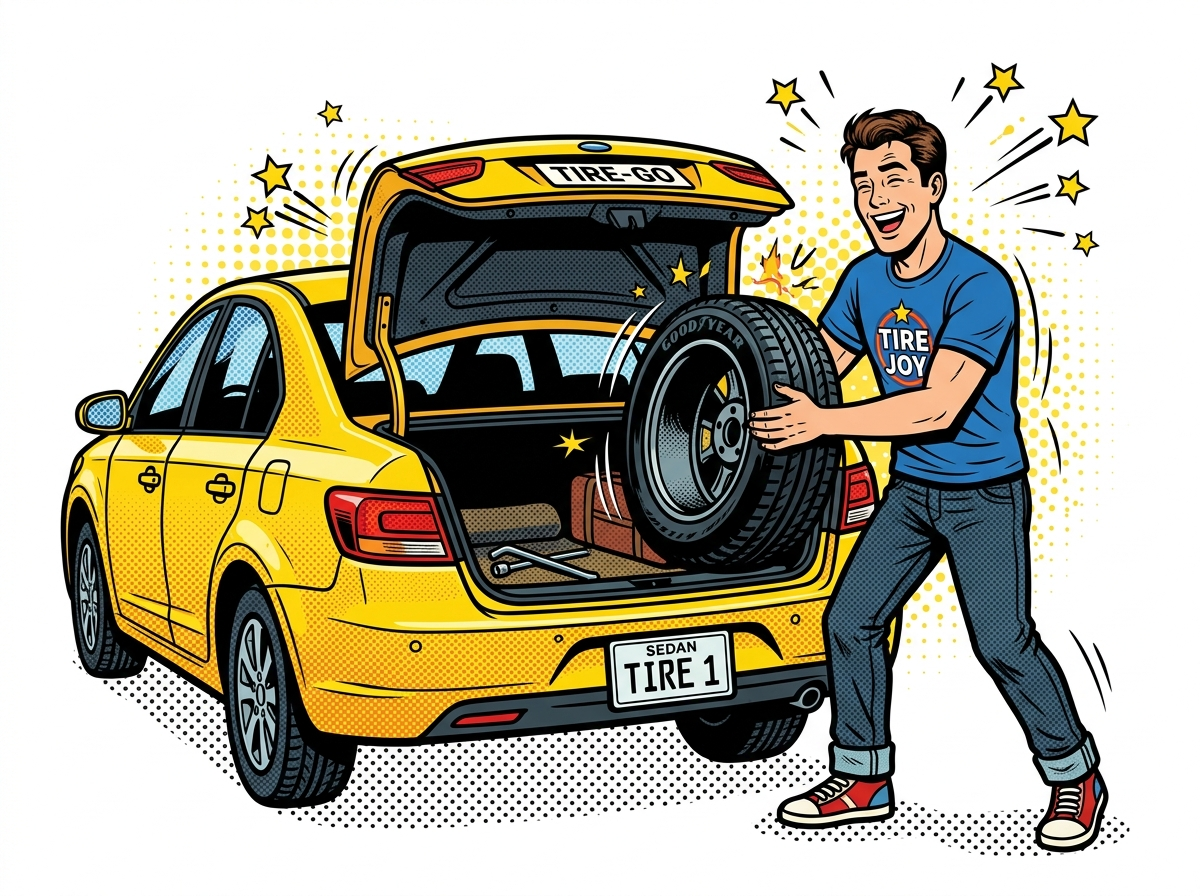
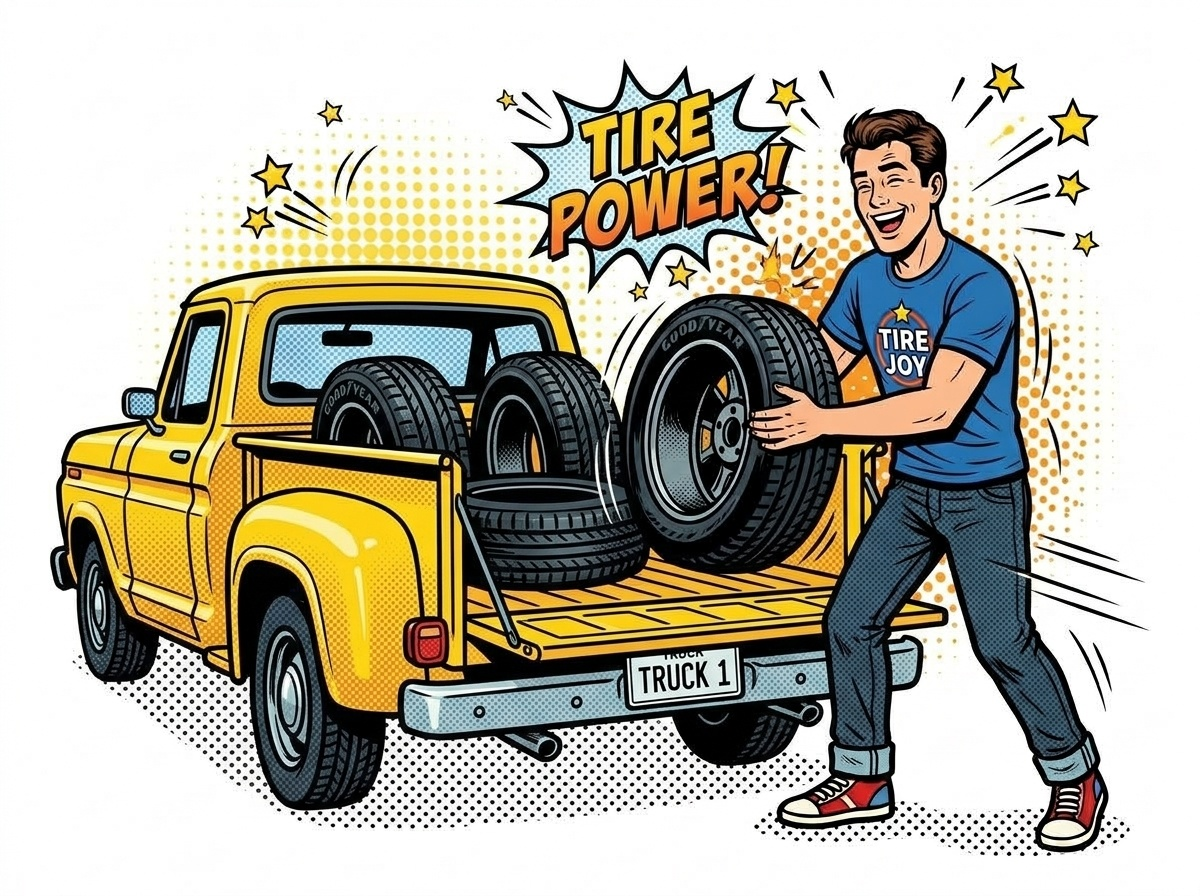
Update Step 05 title to LOAD UP & GO and replace car with pickup truck illustration

diff --git a/tonys-tires/src/app/page.tsx b/tonys-tires/src/app/page.tsx
@@ -536,13 +536,13 @@ export default function Home() {
                 <div className="h-44 w-full rounded-2xl overflow-hidden mb-4 bg-white flex items-center justify-center p-1">
                   <img 
                     src="/step_05.jpg" 
-                    alt="Step 05 - Load Up" 
+                    alt="Step 05 - Load Up & Go" 
                     className="w-full h-full object-contain group-hover:scale-105 transition duration-500" 
                   />
                 </div>
 
                 <h4 className="font-black text-xl text-slate-950 uppercase tracking-tight leading-snug">
-                  LOAD UP
+                  LOAD UP & GO
                 </h4>
                 <p className="text-xs text-slate-600 font-semibold mt-1">
                   Load your purchased tires into your vehicle yourself — quick & easy
